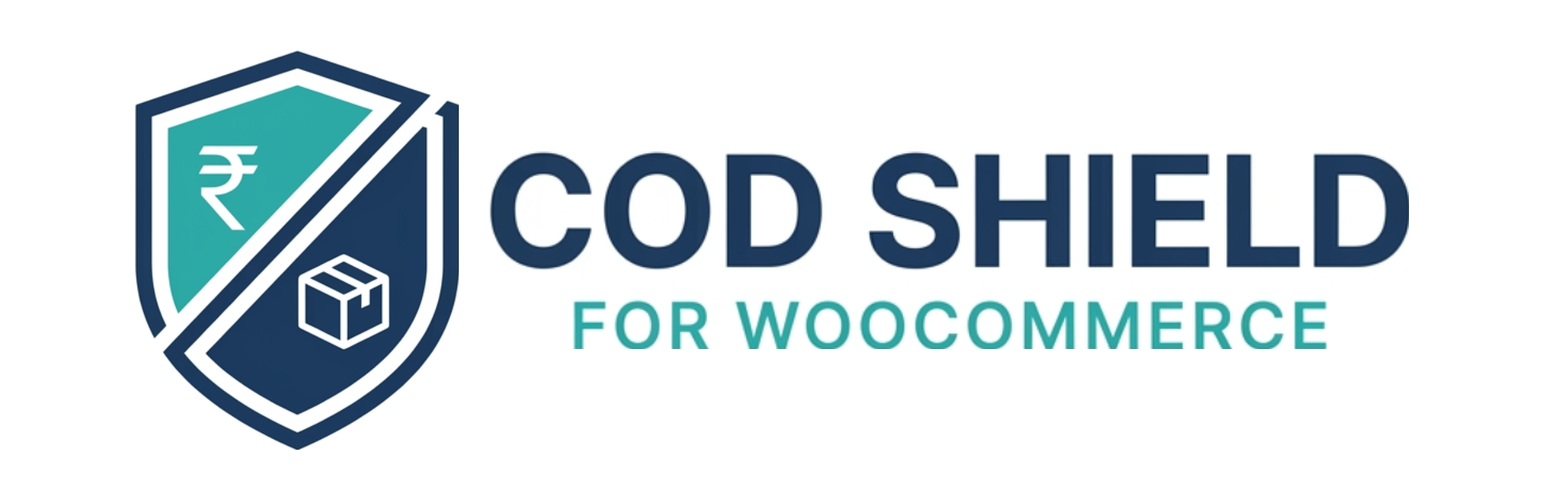
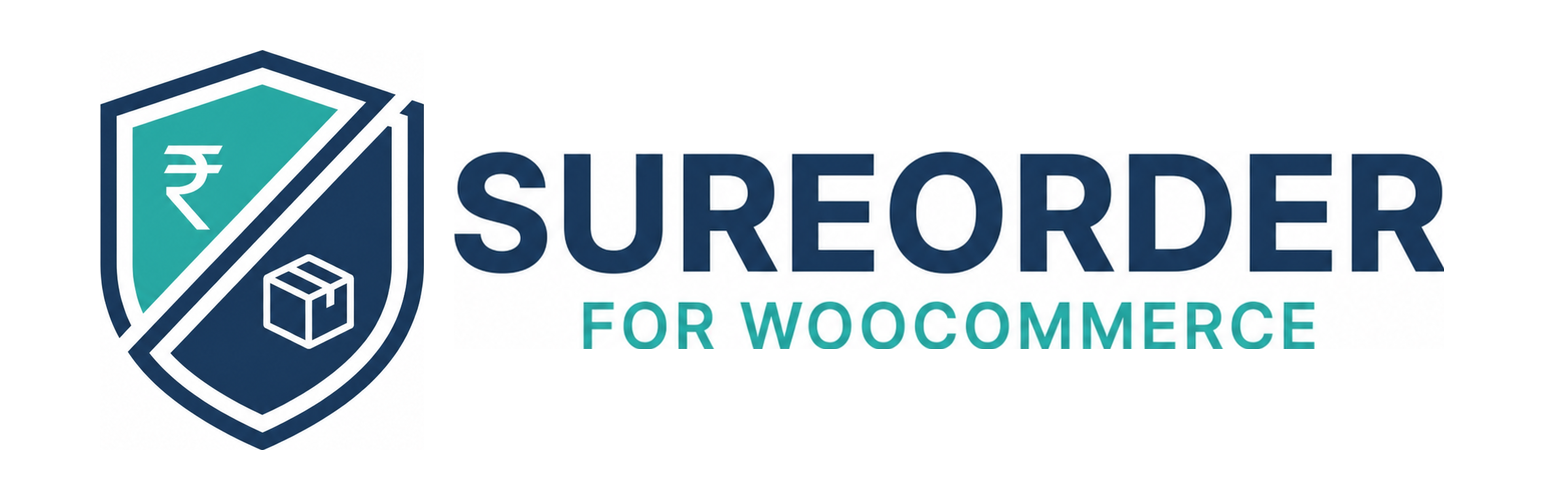
Rename plugin to SureOrder

Changed region(s): [[0.0622, 0.09, 0.9326, 0.9], [0.3731, 0.6, 0.8705, 0.72]]

diff --git a/admin/css/admin.css b/admin/css/admin.css
@@ -1,4 +1,4 @@
-/* COD Shield for WooCommerce — admin styles */
+/* SureOrder — admin styles */
 
 .cod-shield-metabox ul {
 	margin: 0;
@@ -60,7 +60,7 @@
 
 /* Checkout info box (classic) — lives in public/css/checkout.css, which is
    enqueued on the storefront; admin.css is admin-only and never loads there. */
-/* Settings page: COD Shield section logo (General tab) */
+/* Settings page: SureOrder section logo (General tab) */
 .cod-shield-settings-logo {
 	width: 64px;
 	height: 64px;

diff --git a/public/js/checkout.js b/public/js/checkout.js
@@ -1,5 +1,5 @@
 /**
- * COD Shield for WooCommerce — classic checkout live risk-free info box.
+ * SureOrder — classic checkout live risk-free info box.
  *
  * Display-only: re-fetches the cart state from the server whenever the cart
  * changes (updated_checkout) so the box always reflects the authoritative

diff --git a/public/js/blocks/payment-method.js b/public/js/blocks/payment-method.js
@@ -1,5 +1,5 @@
 /**
- * COD Shield for WooCommerce — Checkout block payment method.
+ * SureOrder — Checkout block payment method.
  *
  * Registers the proxy gateway with the block checkout so the advance
  * messaging renders natively under the payment method radio. Uses wp.element

diff --git a/public/css/checkout.css b/public/css/checkout.css
@@ -1,4 +1,4 @@
-/* COD Shield for WooCommerce — checkout styles (frontend). */
+/* SureOrder — checkout styles (frontend). */
 
 /* Advance notice callout: shown under the COD advance payment method radio on
    both classic and block checkouts. The line is the key commitment of the

diff --git a/includes/class-cod-shield-settings.php b/includes/class-cod-shield-settings.php
@@ -1,6 +1,6 @@
 <?php
 /**
- * Settings tab under WooCommerce > Settings > COD Shield.
+ * Settings tab under WooCommerce > Settings > SureOrder.
  *
  * Implemented as a WC_Settings_Page subclass (the official way to add a new
  * top-level tab). Saving is handled by WC_Admin_Settings::save_fields();
@@ -24,7 +24,7 @@ class Settings extends \WC_Settings_Page {
 	 */
 	public function __construct() {
 		$this->id    = 'cod_shield';
-		$this->label = __( 'COD Shield', 'cod-shield' );
+		$this->label = __( 'SureOrder', 'cod-shield' );
 
 		parent::__construct();
 
@@ -46,7 +46,7 @@ class Settings extends \WC_Settings_Page {
 		add_action( 'woocommerce_admin_field_cod_shield_configuration_status', array( $this, 'handle_configuration_status_field' ) );
 		add_action( 'admin_notices', array( $this, 'handle_admin_configuration_notices' ) );
 
-		// Load the admin stylesheet on the COD Shield settings tab AND on the
+		// Load the admin stylesheet on the SureOrder settings tab AND on the
 		// order screens: the stylesheet styles the COD Advance column badges
 		// and the advance metabox, which live on the orders list / order edit
 		// screen, not just on this settings tab.
@@ -150,7 +150,7 @@ class Settings extends \WC_Settings_Page {
 				// served from admin/img/, which ships with the plugin — never
 				// from .wordpress-org/, the WP.org listing-artwork folder that
 				// is not part of an installed plugin.
-				'title' => __( 'Set up COD Shield', 'cod-shield' ),
+				'title' => __( 'Set up SureOrder', 'cod-shield' ),
 				'type'  => 'title',
 				'desc'  => '<img src="' . esc_url( COD_SHIELD_URL . 'admin/img/icon-128x128.png' ) . '" alt="" class="cod-shield-settings-logo" /> ' . __( 'Collect a small online advance to confirm COD orders. Complete the three steps below; optional controls are in the other tabs.', 'cod-shield' ),
 				'id'    => 'cod_shield_general',
@@ -577,7 +577,7 @@ class Settings extends \WC_Settings_Page {
 					<strong class="cod-shield-configuration__summary"><?php echo esc_html( $summary ); ?></strong>
 					<ul>
 						<li class="cod-shield-check cod-shield-check--<?php echo $status['shield_enabled'] ? 'ready' : 'warning'; ?>">
-							<span><?php esc_html_e( 'COD Shield', 'cod-shield' ); ?></span>
+							<span><?php esc_html_e( 'SureOrder', 'cod-shield' ); ?></span>
 							<strong><?php echo esc_html( $status['shield_enabled'] ? __( 'Enabled', 'cod-shield' ) : __( 'Disabled', 'cod-shield' ) ); ?></strong>
 						</li>
 						<li class="cod-shield-check cod-shield-check--<?php echo $status['native_cod_enabled'] ? 'ready' : 'warning'; ?>">
@@ -596,7 +596,7 @@ class Settings extends \WC_Settings_Page {
 	}
 
 	/**
-	 * Show configuration warnings on the COD Shield settings screen.
+	 * Show configuration warnings on the SureOrder settings screen.
 	 *
 	 * @internal
 	 *
@@ -612,7 +612,7 @@ class Settings extends \WC_Settings_Page {
 		if ( $status['shield_enabled'] && ! $status['native_cod_enabled'] ) {
 			$cod_settings_url = admin_url( 'admin.php?page=wc-settings&tab=checkout&section=cod' );
 			echo '<div class="notice notice-warning"><p>';
-			echo '<strong>' . esc_html__( 'COD Shield needs attention:', 'cod-shield' ) . '</strong> ';
+			echo '<strong>' . esc_html__( 'SureOrder needs attention:', 'cod-shield' ) . '</strong> ';
 			echo esc_html__( 'WooCommerce Cash on Delivery is disabled, so COD cannot appear at checkout.', 'cod-shield' ) . ' ';
 			echo '<a href="' . esc_url( $cod_settings_url ) . '">' . esc_html__( 'Enable the COD gateway', 'cod-shield' ) . '</a>';
 			echo '</p></div>';
@@ -791,7 +791,7 @@ class Settings extends \WC_Settings_Page {
 	}
 
 	/**
-	 * Whether the current admin screen is the COD Shield settings tab.
+	 * Whether the current admin screen is the SureOrder settings tab.
 	 *
 	 * @return bool
 	 */

diff --git a/cod-shield.php b/cod-shield.php
@@ -1,6 +1,6 @@
 <?php
 /**
- * Plugin Name:       COD Shield for WooCommerce
+ * Plugin Name:       SureOrder — COD Advance Payments for WooCommerce
  * Plugin URI:        https://wordpress.org/plugins/cod-shield/
  * Description:       Reduce COD RTO by collecting a partial advance payment through one compatible WooCommerce gateway, with simple setup, optional eligibility rules, and clear order visibility.
  * Version:           2.0.2
@@ -22,18 +22,18 @@
 /*
 Copyright (C) 2026 Prathamesh Shirole
 
-COD Shield for WooCommerce is free software: you can redistribute it and/or modify
+SureOrder is free software: you can redistribute it and/or modify
 it under the terms of the GNU General Public License as published by
 the Free Software Foundation, either version 2 of the License, or
 any later version.
 
-COD Shield for WooCommerce is distributed in the hope that it will be useful,
+SureOrder is distributed in the hope that it will be useful,
 but WITHOUT ANY WARRANTY; without even the implied warranty of
 MERCHANTABILITY or FITNESS FOR A PARTICULAR PURPOSE. See the
 GNU General Public License for more details.
 
 You should have received a copy of the GNU General Public License
-along with COD Shield for WooCommerce. If not, see https://www.gnu.org/licenses/.
+along with SureOrder. If not, see https://www.gnu.org/licenses/.
 */
 
 defined( 'ABSPATH' ) || exit;
@@ -105,7 +105,7 @@ add_action(
 				'admin_notices',
 				static function () {
 					echo '<div class="notice notice-error"><p>';
-					echo esc_html__( 'COD Shield for WooCommerce requires WooCommerce to be installed and active.', 'cod-shield' );
+					echo esc_html__( 'SureOrder requires WooCommerce to be installed and active.', 'cod-shield' );
 					echo '</p></div>';
 				}
 			);

diff --git a/includes/class-cod-shield-order-meta.php b/includes/class-cod-shield-order-meta.php
@@ -128,7 +128,7 @@ class Order_Meta {
 
 	/**
 	 * Pure factory from a flat meta map ([key => value]). Unit-testable without
-	 * WordPress. COD Shield meta takes precedence over the RIRCOD schema.
+	 * WordPress. SureOrder meta takes precedence over the RIRCOD schema.
 	 *
 	 * @param array<string,mixed> $m Meta map.
 	 * @return self
@@ -136,7 +136,7 @@ class Order_Meta {
 	public static function from_meta_array( array $m ) {
 		$view = new self();
 
-		// 1. Native COD Shield meta wins when present.
+		// 1. Native SureOrder meta wins when present.
 		$advance = (float) ( $m[ Core::META_ADVANCE ] ?? 0 );
 		if ( $advance > 0 ) {
 			$view->source    = self::SOURCE_COD_SHIELD;
@@ -192,7 +192,7 @@ class Order_Meta {
 	public function source_label() {
 		switch ( $this->source ) {
 			case self::SOURCE_COD_SHIELD:
-				return __( 'COD Shield', 'cod-shield' );
+				return __( 'SureOrder', 'cod-shield' );
 			case self::SOURCE_RIRCOD:
 				return __( 'RIRCOD', 'cod-shield' );
 			default:

diff --git a/includes/class-cod-shield-gateway-cod-advance.php b/includes/class-cod-shield-gateway-cod-advance.php
@@ -257,7 +257,7 @@ class Gateway_COD_Advance extends \WC_Payment_Gateway {
 		$order->save();
 
 		if ( 'block' === $core->get_option( Core::OPT_FAILURE, 'allow' ) ) {
-			$order->update_status( 'cancelled', __( 'Advance payment failed; order cancelled per COD Shield settings.', 'cod-shield' ) );
+			$order->update_status( 'cancelled', __( 'Advance payment failed; order cancelled per SureOrder settings.', 'cod-shield' ) );
 		}
 
 		return array( 'result' => 'failure' );

diff --git a/tests/integration/bootstrap.php b/tests/integration/bootstrap.php
@@ -20,7 +20,7 @@ if ( ! file_exists( $cod_shield_tests_dir . '/includes/functions.php' ) ) {
 require_once $cod_shield_tests_dir . '/includes/functions.php';
 
 /**
- * Load WooCommerce and COD Shield before WordPress initializes plugins.
+ * Load WooCommerce and SureOrder before WordPress initializes plugins.
  *
  * @return void
  */

diff --git a/includes/class-cod-shield-emails.php b/includes/class-cod-shield-emails.php
@@ -53,7 +53,7 @@ class Emails {
 			return;
 		}
 
-		// Normalized view covers both COD Shield orders and legacy RIRCOD orders.
+		// Normalized view covers both SureOrder orders and legacy RIRCOD orders.
 		$view = Order_Meta::from_order( $order );
 
 		// Only summarize once the advance is confirmed collected.

diff --git a/tests/unit/SettingsGeneralBannerTest.php b/tests/unit/SettingsGeneralBannerTest.php
@@ -1,6 +1,6 @@
 <?php
 /**
- * Unit tests: COD Shield General settings tab banner.
+ * Unit tests: SureOrder General settings tab banner.
  *
  * Regression guard for the "raw HTML printed on the General settings tab"
  * bug: the section `title` of a WC settings page is rendered by WooCommerce

diff --git a/includes/class-cod-shield-order-ui.php b/includes/class-cod-shield-order-ui.php
@@ -400,7 +400,7 @@ class Order_UI {
 
 		add_meta_box(
 			'cod_shield_advance_box',
-			__( 'COD Shield — Advance Payment', 'cod-shield' ),
+			__( 'SureOrder — Advance Payment', 'cod-shield' ),
 			array( $this, 'render_metabox' ),
 			$screen,
 			'side',
